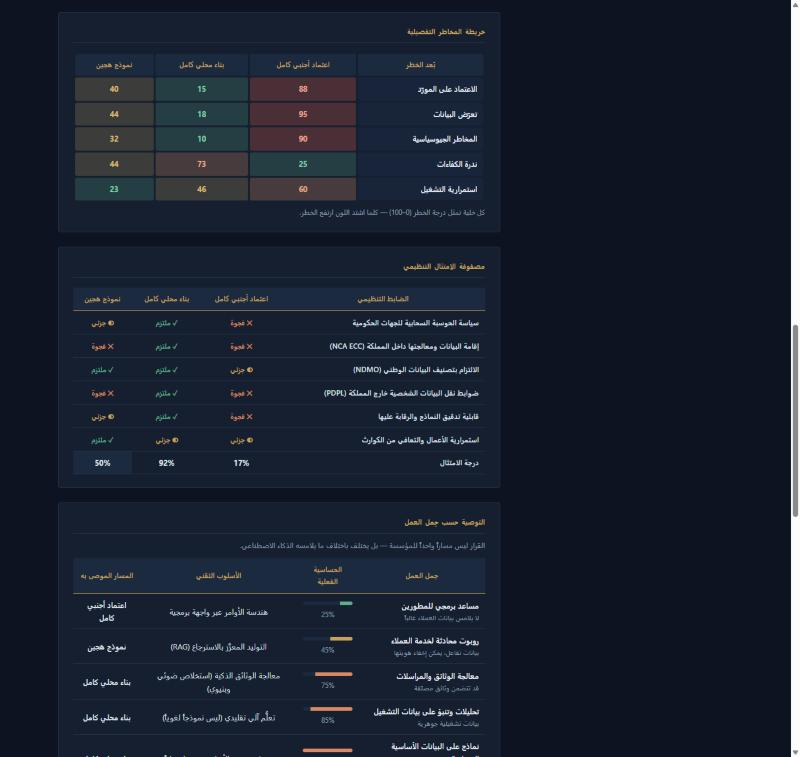
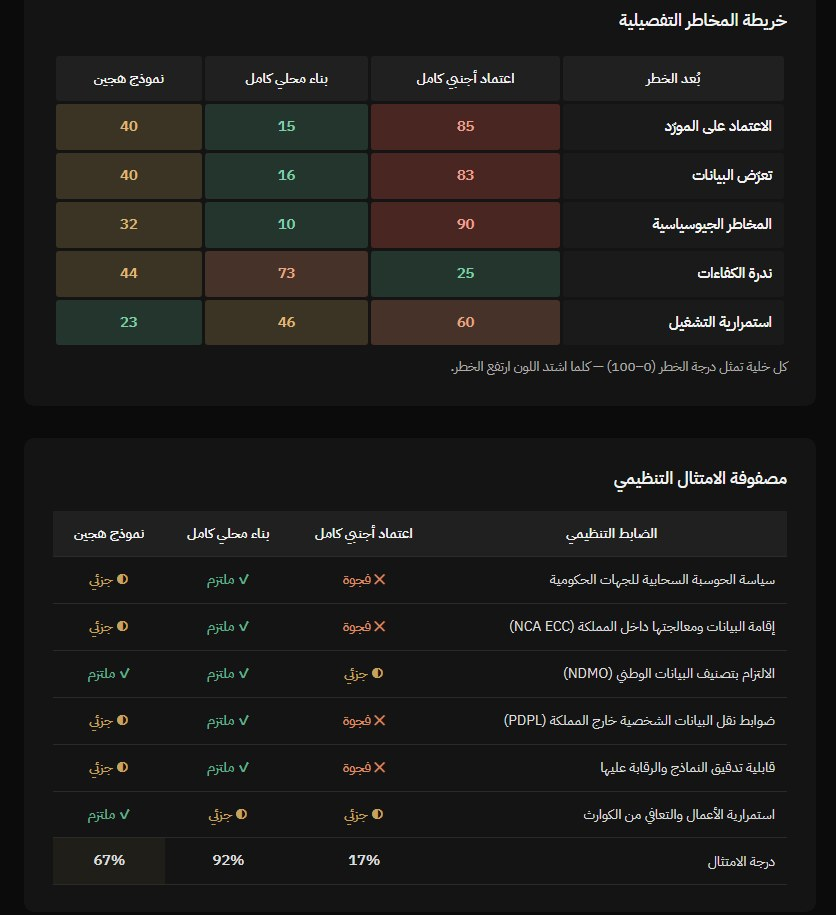
Refresh screenshots for the matte-black redesign and document the use-case-driven AI plan

diff --git a/README.md b/README.md
@@ -21,7 +21,7 @@ Answering it properly normally requires a consulting engagement measured in mont
 
 ## What it does | ما تفعله
 
-Four inputs — **sector, organization size, data sensitivity, technology budget** — produce a complete strategic comparison of three adoption paths, scored on cost, timeline, sovereignty risk, execution speed, scalability, and talent readiness.
+Five inputs — **sector, organization size, data sensitivity, technology budget, and the primary AI use case** — produce a complete strategic comparison of three adoption paths, scored on cost, timeline, sovereignty risk, execution speed, scalability, and talent readiness.
 
 ## The decision is not one path | القرار ليس مساراً واحداً
 
@@ -29,15 +29,15 @@ The simulator's central argument: an organization does not pick one path. The ri
 
 ![Workloads and AI approach](docs/02-workloads-and-approach.jpg)
 
-| Workload | Effective sensitivity | Technique | Path |
-|---|---|---|---|
-| Developer coding assistant | low | Prompt engineering | Foreign |
-| Customer-service chatbot | moderate | Retrieval-Augmented Generation | Hybrid |
-| Document processing | high | Intelligent document processing | Sovereign |
-| Operational analytics | high | **Classical ML — not an LLM** | Sovereign |
-| Core sensitive data | highest | Locally fine-tuned open-weight model | Sovereign |
+Five workloads are assessed — a developer coding assistant, a customer-service chatbot, document processing, operational analytics, and models on core sensitive data — each with its own effective sensitivity, technique and path.
 
-Nothing here is a fixed lookup. The technique is **scored per workload** against the organization's own constraints — budget capacity, team depth, sector tilt and the residency requirement — so a small entity on a tight budget is steered away from techniques it cannot staff, while a well-funded enterprise is pushed deeper.
+Nothing here is a fixed lookup. The organization states **what it wants from AI first**, and the plan is built around that use case. Each use case has a maturity ladder of techniques; where the organization **starts** on it and how far it should **aim** are decided by its own constraints:
+
+- a budget or team that cannot carry the natural technique starts one rung below it;
+- data that may not leave the Kingdom rules out starting on a hosted service;
+- fine-tuning is only proposed where the data is sensitive enough to justify it.
+
+Every suggested technique carries a one-line **reason** specific to that organization, so the same use case produces a different plan for a small entity on a tight budget than for a well-funded enterprise. Operational analytics, for example, is steered to **classical ML rather than an LLM**.
 
 **Select any workload row** and it expands in place to show that workload's technique, its lead time and complexity, what it requires across **data, infrastructure, team and governance**, and a shortlist of **named models available on the market**. Where the workload's data may not leave the Kingdom, hosted services are filtered out of that shortlist automatically and the exclusion is stated — so the same table recommends Claude or GPT for a coding assistant and ALLaM, Qwen or Llama for core classified data.
 
@@ -72,12 +72,14 @@ Both export in **Arabic or English**, in **Saudi Riyal or US Dollar**, with corr
 **Risk, compliance and execution**
 - Detailed five-dimension risk map.
 - Regulatory compliance matrix with a per-path compliance percentage.
-- Per-workload technique recommendation, scored against the organization's constraints, with requirements and a named-model shortlist filtered by data residency.
+- Per-workload technique recommendation, staged against the organization's constraints and built around its primary use case, with requirements and a named-model shortlist filtered by data residency.
 - Expandable workload rows — each reveals its own technique, requirements and model options in place.
 - Four-phase implementation roadmap specific to the recommended path.
 
 **Experience**
-- Full Arabic/English interface with correct RTL layout, a dark executive theme, and a responsive phone layout.
+- Full Arabic/English interface with correct RTL layout, a matte-black executive theme, and a responsive phone layout.
+- Results appear on load and update instantly as any input changes, with the recommendation presented as a single headline score against the two alternatives.
+- Sticky section navigation across the full analysis.
 - Save and compare several analyses side by side.
 
 ## Technical overview | نظرة تقنية
